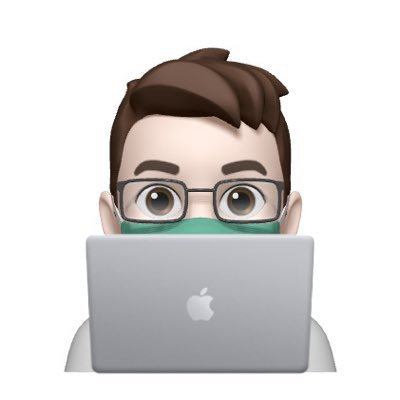
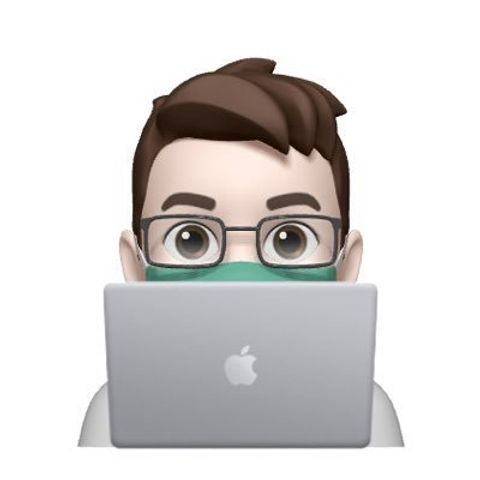
fix: srcSet added

diff --git a/src/pages/index.jsx b/src/pages/index.jsx
@@ -6,6 +6,8 @@ import PropTypes from 'prop-types';
 import { rhythm } from '../utils/typography';
 import Layout from '../components/layout';
 import avatar from '../assets/avatar.jpg';
+import avatarAvif from '../assets/avatar.avif';
+import avatarWebp from '../assets/avatar.webp';
 
 const styledHeaderWrapper = css`
   display: flex;
@@ -93,7 +95,17 @@ export default function App({ data }) {
               {`${data.allMarkdownRemark.totalCount} Notes`}
             </h4>
           </div>
-          <img loading="lazy" src={avatar} alt="Roman" css={styledAvatar} />
+          <picture>
+            <source
+              srcSet={avatarAvif}
+            />
+            <source
+              srcSet={avatarWebp}
+
+            />
+            <img loading="lazy" src={avatar} alt="Roman" css={styledAvatar} />
+          </picture>
+
         </div>
         <div css={styledCoffeeWrapper}>
           <Link to="coffee" css={styledLink}>
